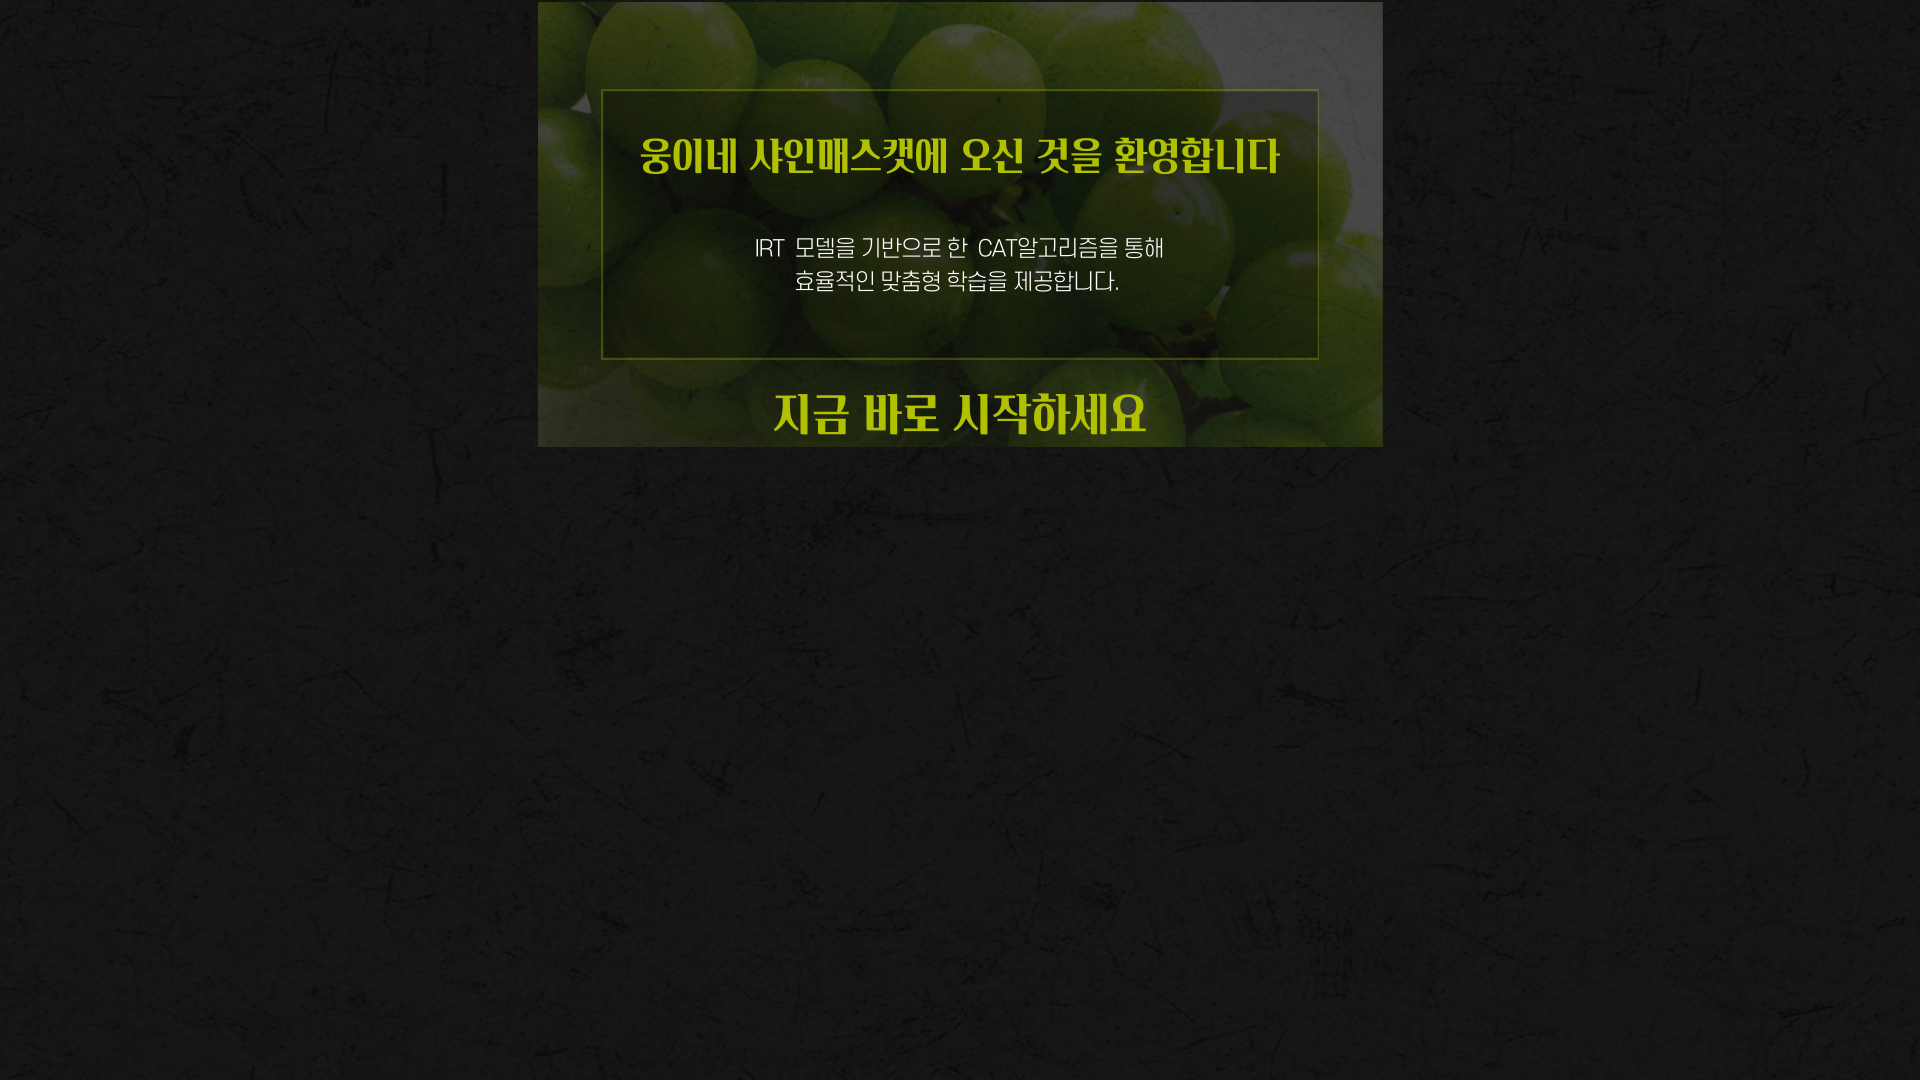
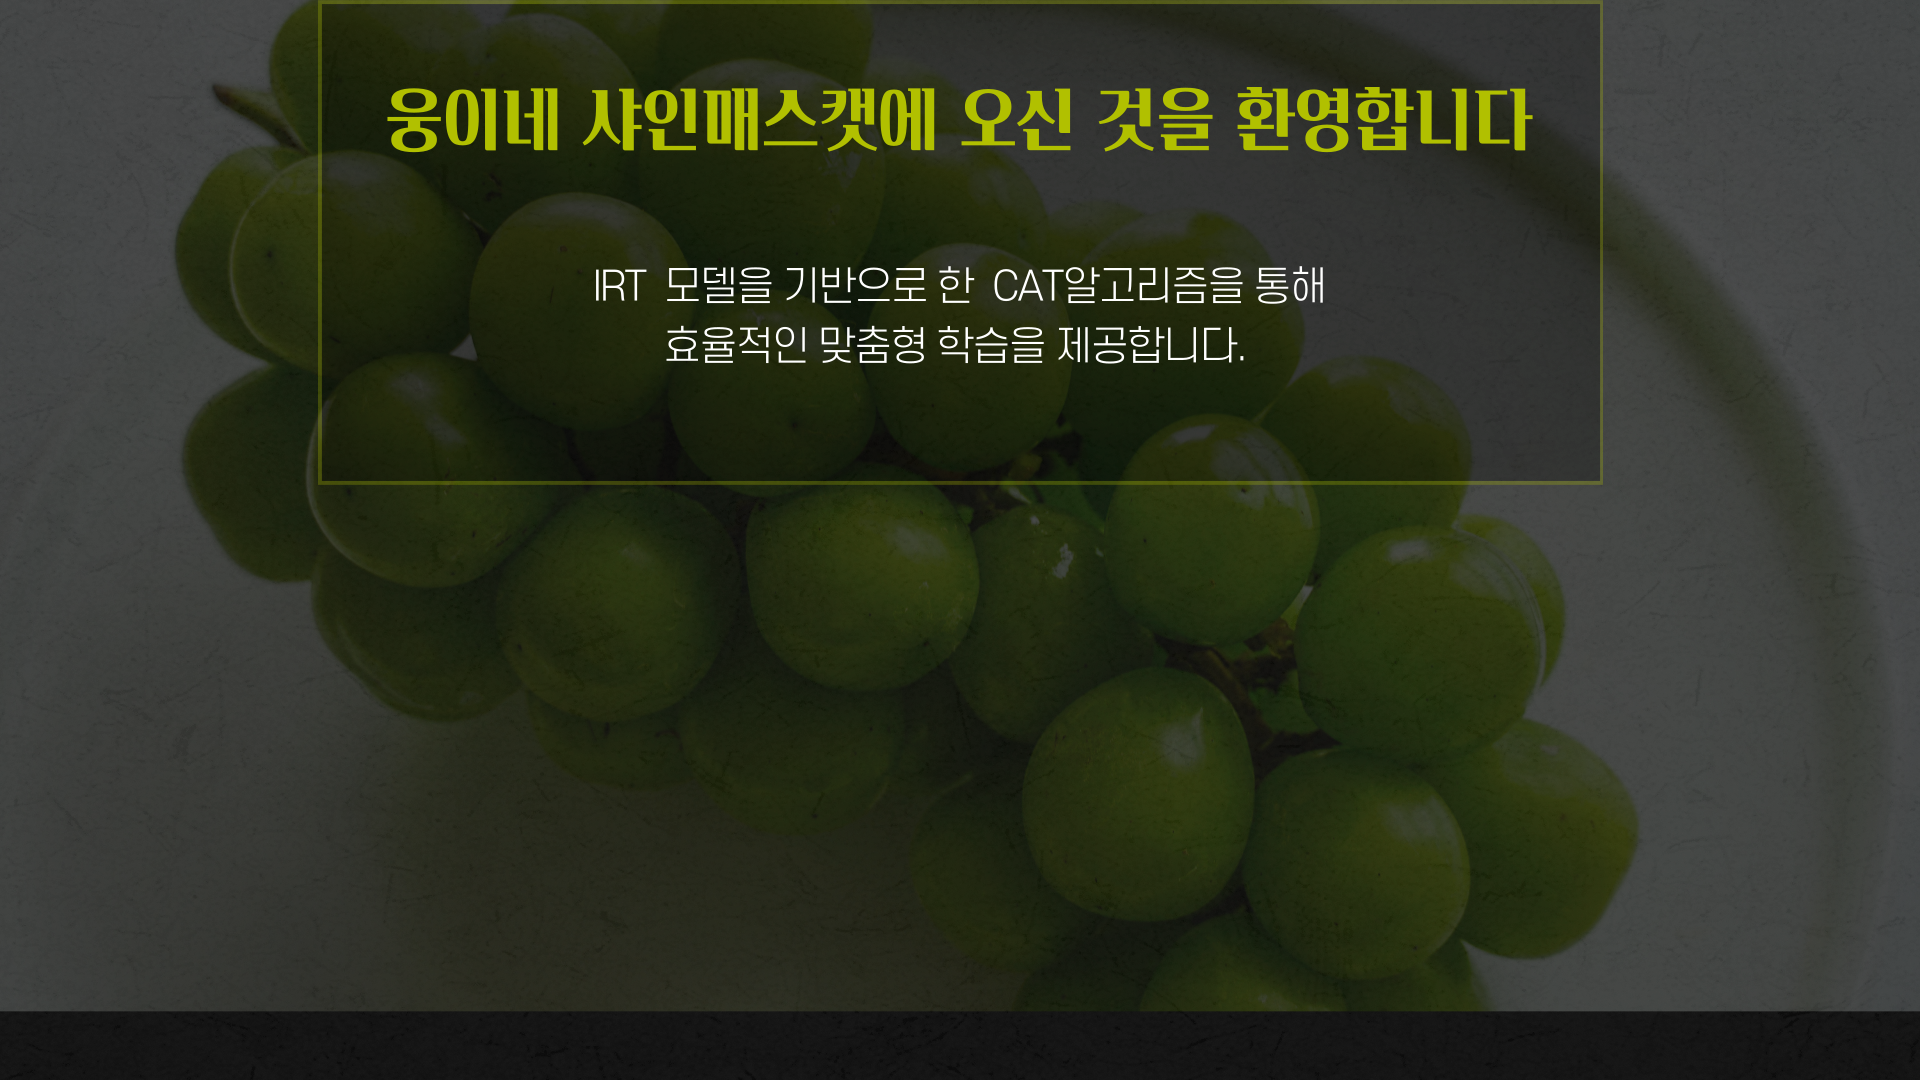
버튼수정가능하게 했음

diff --git a/web/static/js/quiz.js b/web/static/js/quiz.js
@@ -4,6 +4,7 @@ document.addEventListener('DOMContentLoaded', function() {
     let questionDisplay = document.getElementById('question-display');
     let lastQuiz = false; // 마지막 퀴즈 여부를 저장하는 변수
     let userHasSelected = false;
+    let selectedAnswer = null;// 사용자가 선택한 답변을 임시 저장할 변수
 
     function loadNextQuestion() {
         currentQuestionNum++; // 문제 번호를 업데이트
@@ -31,10 +32,12 @@ document.addEventListener('DOMContentLoaded', function() {
         }
         
         if (!lastQuiz) {
-            
+
+            sendAnswer(selectedAnswer, currentQuestionId); // 여기에서 선택한 답변을 전송
             loadNextQuestion(); // 다음 문제 로드
             resetSelection(); // 선택된 상태 초기화
             userHasSelected = false; // 사용자 선택 상태 초기화
+            selectedAnswer = null; // 선택한 답변 초기화
         }
     });
     //     if (!lastQuiz && !userHasSelected) {
@@ -60,14 +63,18 @@ document.addEventListener('DOMContentLoaded', function() {
     oButton.addEventListener('click', function() {
         if (!lastQuiz) {
             updateSelection(oButton);
-            sendAnswer(true, currentQuestionId); // 문제를 맞힘
+            selectedAnswer = true; // 사용자가 "O"를 선택한 것으로 저장
+            userHasSelected = true; // 답변이 선택되었다고 표시
+            // sendAnswer(true, currentQuestionId); // 문제를 맞힘
         }
     });
 
     xButton.addEventListener('click', function() {
         if (!lastQuiz) {
             updateSelection(xButton);
-            sendAnswer(false, currentQuestionId); // 문제를 틀림
+            // sendAnswer(false, currentQuestionId); // 문제를 틀림
+            selectedAnswer = false; // 사용자가 "X"를 선택한 것으로 저장
+            userHasSelected = true; // 답변이 선택되었다고 표시
         }
     });
 

diff --git a/web/static/css/quiz.css b/web/static/css/quiz.css
@@ -26,16 +26,18 @@ header {
 }
   
   .box {
-    height: 120%;
+    height: 100%;
     width: 100vw;
-    position:relative;
+    position:relative; 
     top: 70px; 
     left: 0;
-    
+    background-image: url('/static/img/quiz.png');
+    background-size: cover;
     /* background-color: #A8EA66; 단일 배경색 사용 */
     /* OR */
-    background: #174031;
-    background: linear-gradient(324deg, #174031 28%, #2C7359 46%, #174031);
+    /* background: #174031;
+    background: linear-gradient(324deg, #174031 28%, #2C7359 46%, #174031); */
+
   }
   body, html {
     /*padding-top: 70px;  헤더 높이에 맞춰 조정 */

diff --git a/web/templates/quiz.html b/web/templates/quiz.html
@@ -6,7 +6,7 @@
     <meta name="viewport" content="width=device-width, initial-scale=1.0">
     <title>퀴즈 페이지</title>
     <link href="https://fonts.googleapis.com/css2?family=Nanum+Gothic&family=Song+Myung&display=swap" rel="stylesheet">
-    <link rel="stylesheet" href="/static/css/quiz.css?v=1.5">
+    <link rel="stylesheet" href="/static/css/quiz.css?v=1.7">
 </head>
 <body>
     <header>
